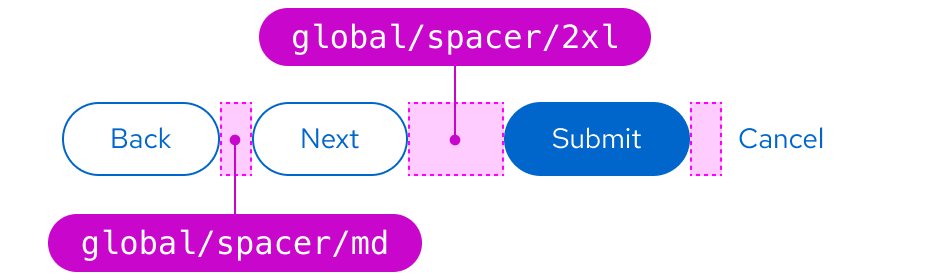
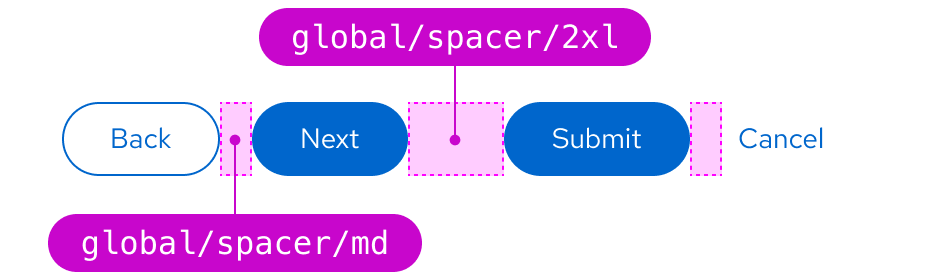
chore(buttons):Docs change to guidelines
Added semantic spacer info and changed two images

Changed region(s): [[0.2489, 0.3714, 0.4356, 0.6286]]

diff --git a/packages/documentation-site/patternfly-docs/content/design-guidelines/components/button/button.md b/packages/documentation-site/patternfly-docs/content/design-guidelines/components/button/button.md
@@ -169,7 +169,7 @@ The placement of buttons on wizards will depend on the layout of content you pre
 
 ### Button spacing and action lists
 
-The standard spacing between each button is 16px, even for danger buttons. If buttons are stacked vertically, the spacing between each button should be 8px.
+The standard spacing between each button is `--pf-t--global--spacer--md` (16px), even for danger buttons. If buttons are stacked vertically, the spacing between each button should be `--pf-t--global--spacer--sm` (8px).
 
 _Standard spacing_
 
@@ -185,7 +185,7 @@ Exceptions to the standard spacing guidelines are as follows:
 
 #### Wizards ####
 
-In wizards, the **Cancel** button is spaced 48px away from the primary and secondary **Next** and **Back** buttons, and 24px away if stacked.
+In wizards, the **Cancel** button is spaced `--pf-t--global--spacer--2xl` (48px) away from the primary and secondary **Next** and **Back** buttons, and `--pf-t--global--spacer--md` (24px) away if stacked.
 
 _Wizard spacing_
 
@@ -195,17 +195,9 @@ _Wizard stacked spacing_
 
 <img src="./img/button_wizard_stacked.png" alt="Stacked wizard button spacing with spacers" width="121"/>
 
-#### Modals ####
-
-In modals, the primary button is spaced only 8px away from the secondary button, rather than the standard 16px.
-
-_Modal spacing_
-
-<img src="./img/modal_exception.png" alt="Modal button spacing with spacers" width="446"/>
-
 #### Toolbars ####
 
-Button spacing in toolbars depends on the button type. Normal 16px spacing applies between primary and secondary buttons. However, there should only be 8px between icon buttons.
+Button spacing in toolbars depends on the button type and how they are grouped. For example, groups of primary and secondary buttons use `--pf-t--global--spacer--sm` (8px) spacing between buttons and `--pf-t--global--spacer--md` (16px) between groups. Icon buttons inside a grouping use `--pf-t--global--spacer--xs` (4px) spacing and `--pf-t--global--spacer--md` (16px) between groups.
 
 _Toolbar spacing_
 
